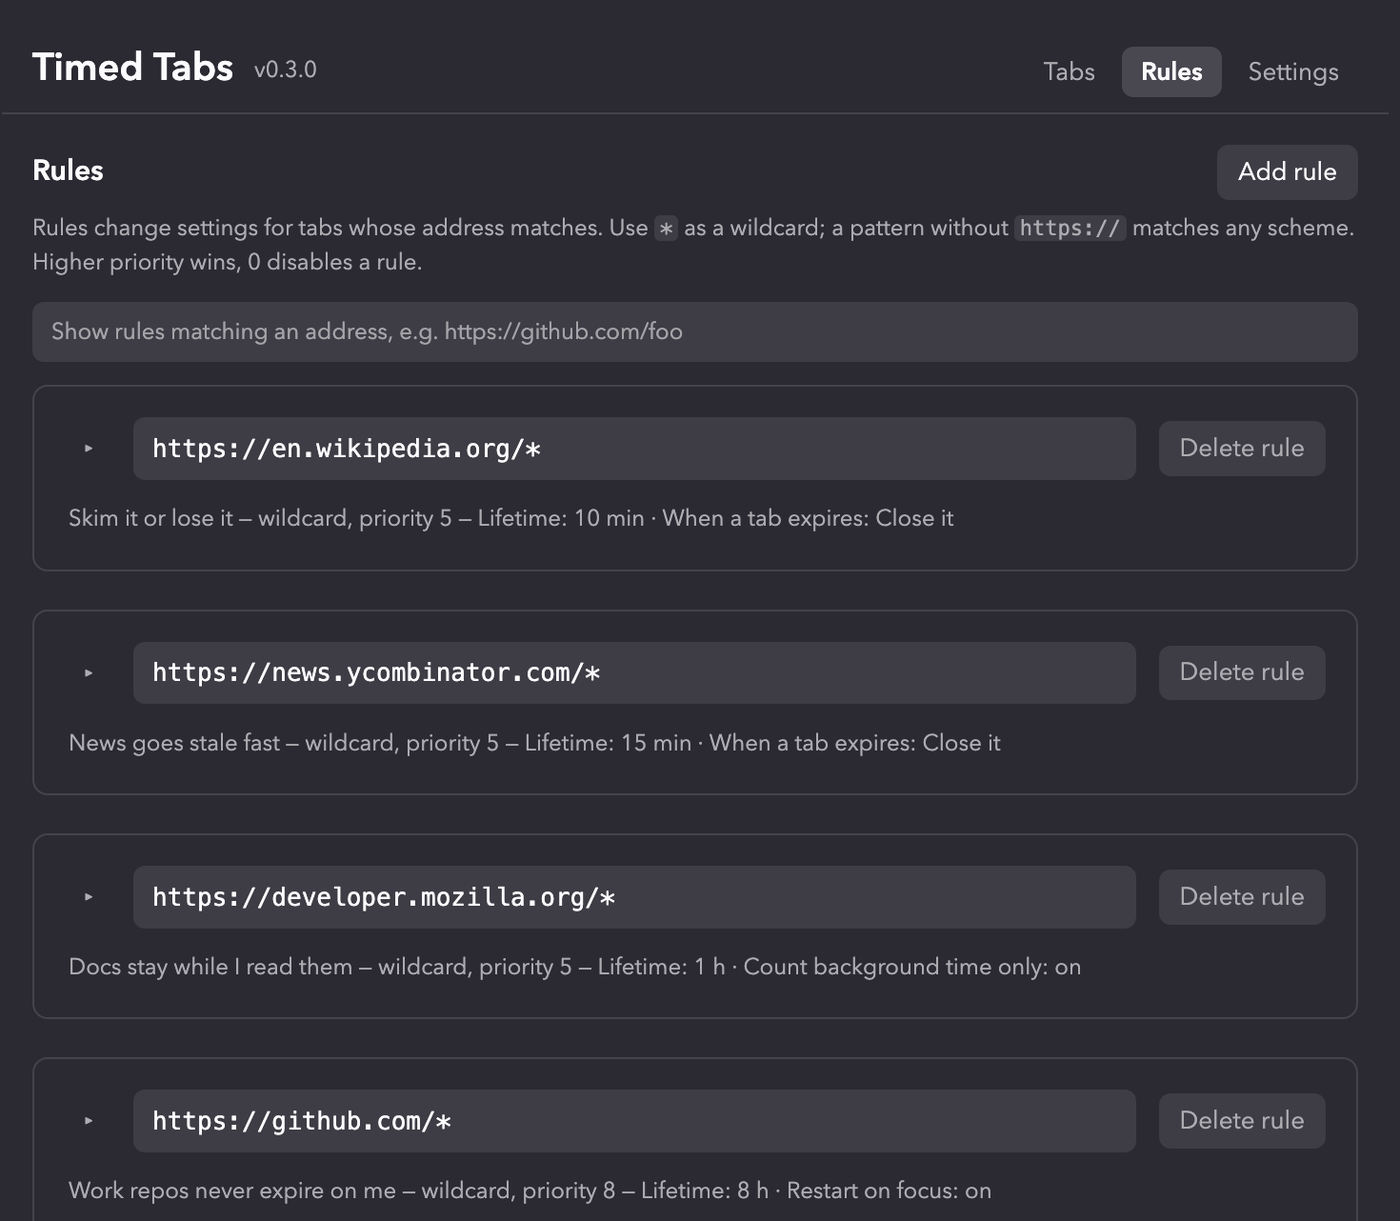
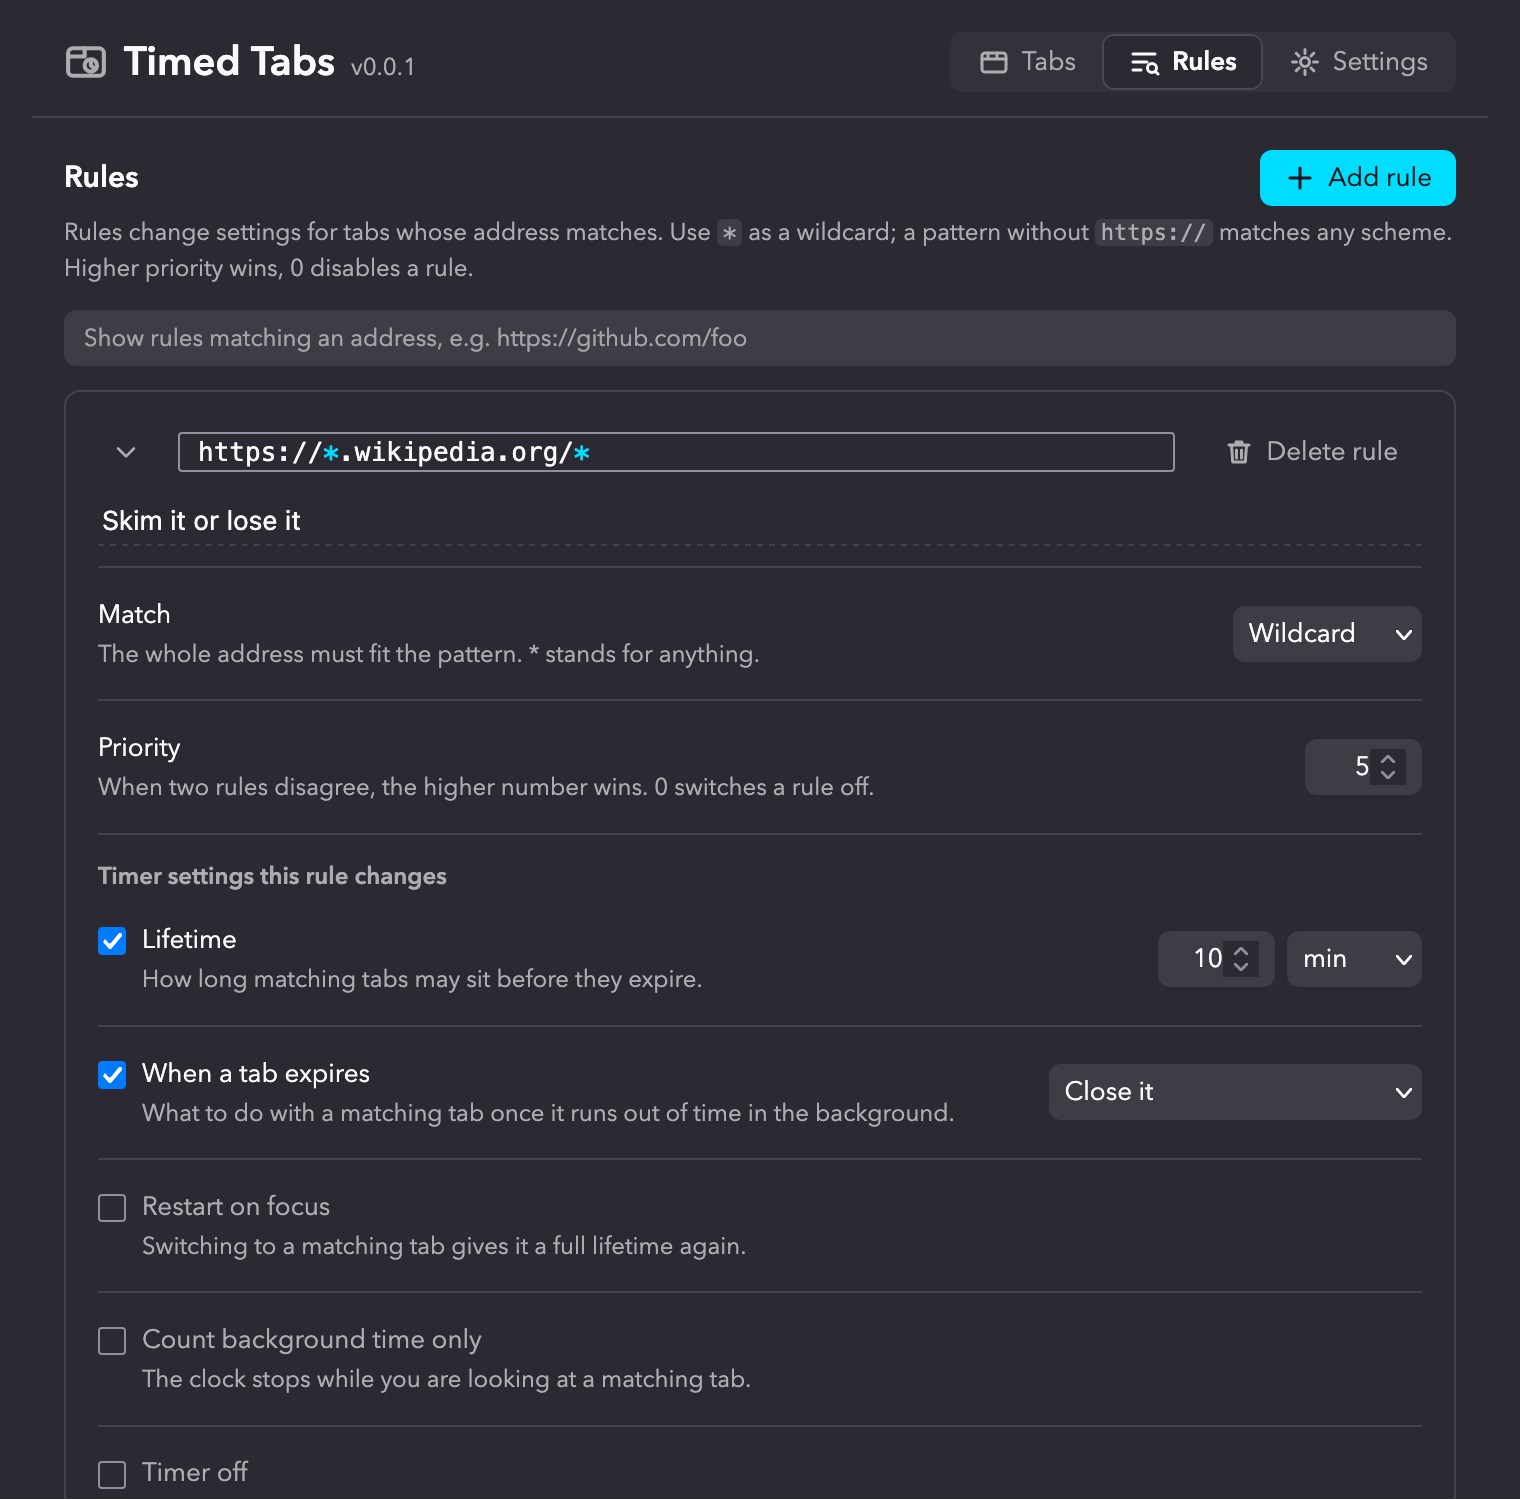
docs: a feature tour with fresh screenshots
docs/features.md walks through the timer, expiry actions, indicators, the
popup, the Tabs and Rules pages, settings, permissions and betas, drawn
from the pre-reset changelog and the current code. The screenshots are
retaken from the current UI; the two old v0.3.0 ones are replaced and a
popup and settings shot added.

diff --git a/docs/features.md b/docs/features.md
@@ -1,0 +1,146 @@
+# Features
+
+Timed Tabs gives every tab an expiry timer, shows how much of it is left, and does
+something about the tab when the time is up. Everything happens inside the browser;
+there is no account and no server.
+
+## The timer
+
+Every tab starts a clock the moment it appears. The default lifetime is 30 minutes,
+set under Settings, Timing. Two settings change when the clock runs:
+
+- **Restart the timer when you switch to a tab.** Every visit gives the tab a full
+  lifetime again, so tabs you keep coming back to never expire.
+- **Only count time while a tab is in the background.** The clock stops while you
+  are looking at a tab and resumes when you leave it.
+
+Pinned tabs are left alone. So is the tab you are looking at: whatever the expiry
+action is, it never touches the active tab.
+
+## What happens at zero
+
+Settings, When a tab expires, has one action for every background tab that runs
+out of time:
+
+- **Leave it open.** The colours show it has expired; nothing else changes.
+- **Reload it, restart the timer.** Useful for dashboards and feeds.
+- **Unload it.** The tab stays in the strip but frees its memory.
+- **Close it.** The tab goes, and lands in the Recently expired list.
+
+With **Tell me when a tab is closed** on, a desktop notification names each tab that
+was closed. Several tabs closed on the same tick share one notification. Clicking it
+reopens the tab when there was one, and opens the Tabs page when there were more.
+This needs the browser's notification permission, which is asked for when the setting
+is switched on.
+
+## Seeing the time left
+
+Settings, Appearance, offers four indicators. Use any combination. Colour runs
+green, yellow, red as time runs out.
+
+- **Colour every tab's favicon.** The icon gets a coloured square, ring or dot,
+  chosen under Favicon colour style. Works on every tab.
+- **Coloured dot in the tab title.** A 🟢 🟡 🟠 🔴 dot in front of the page title.
+  History entries show it too.
+- **Tint the active tab.** The background of the tab you are viewing takes the
+  colour. Firefox only.
+- **Minutes left on the toolbar button.** The Timed Tabs button shows the minutes
+  left for the current tab.
+
+Two settings soften the display. **Flash when a tab is about to expire** makes every
+indicator blink during the last stretch, by default the final minute. **Leave fresh
+tabs alone** shows nothing until a tab has used part of its lifetime, 40% by default,
+so recently opened tabs look like ordinary tabs.
+
+## The popup
+
+The toolbar button opens a small panel for the current tab.
+
+![The popup: time left, a draggable bar, Restart timer, Snooze and Never expire](../assets/screenshots/popup.png)
+
+- The time left, with a bar you can drag to set the tab's used share anywhere
+  between 2% and 100%.
+- **Restart timer** gives the tab a full lifetime.
+- **Snooze** adds a share of the tab's own lifetime, 10% by default, set under
+  Settings, Timing, Snooze adds.
+- **Never expire this tab** takes the tab out of the timer for as long as it is open.
+- When rules match the page, they are listed with a switch to ignore each one for
+  this tab, and a switch to ignore all of them. These choices last until the tab is
+  closed.
+- The footer opens the Tabs page, the rules that apply to this page, and Settings,
+  and links to the source code.
+
+## The Tabs page
+
+![The Tabs page: every open tab with its bar, rule count and quick actions, and the recently expired list](../assets/screenshots/tabs.png)
+
+All open tabs, grouped by window, with the active window first. Each row shows the
+favicon, the title, how many rules match, the time left and a bar of the lifetime
+used. The buttons on the right snooze the tab, turn its timer on or off, toggle
+restart-on-focus, and close it. Closing asks for a second click.
+
+**Order by** sorts within each window by tab order, time left or percent left, and
+the choice is remembered.
+
+**Recently expired** lists the tabs Timed Tabs closed, for a day by default. Each row
+keeps the site's icon and can be reopened. A page that keeps expiring shows once
+with a count and the time it was last closed. Rows can be removed one at a time, or
+the whole list cleared.
+
+## Rules
+
+![The Rules page, with one rule expanded to show its pattern, match mode, priority and overrides](../assets/screenshots/rules.png)
+
+A rule changes settings for tabs whose address matches a pattern. Rules are
+re-evaluated whenever a tab navigates, so a tab that moves from one site to another
+picks up the other site's rules.
+
+- **Patterns** use `*` as a wildcard. A pattern without `https://` matches any scheme.
+  Wildcards are shown in colour so they stand out. New rules start with `https://`.
+- **Match** is either the whole address against the pattern, or "starts with".
+- **Priority** runs from 0 to 10. When two rules disagree, the higher number wins,
+  and 0 switches a rule off.
+- **Timer settings** a rule can change: lifetime, the expiry action, restart on
+  focus, count background time only, and timer off.
+- **Appearance** a rule can change: which indicators are used, the favicon style,
+  leave fresh tabs alone and its threshold, and flashing with its lead time. The
+  global settings stay the default; a rule only replaces what it sets.
+
+The rules list is sorted by pattern. A filter box shows only the rules that match an
+address. **Make / edit rules for this page** in the popup opens the list filtered to
+the current site, and **Add rule** starts one for that site and scrolls to it.
+
+## Settings
+
+![The Settings page](../assets/screenshots/settings.png)
+
+Settings save as soon as they change and show a Saved mark. Settings sync
+through the browser's extension storage; rules are kept locally.
+
+- **Manage tabs** is the master switch. Off leaves every tab alone, with no timers,
+  no closing and no colours, and undoes every mark already made. Back on, every tab
+  starts its life afresh from that moment.
+- **Backup** exports every setting and every rule as one JSON document, to copy or
+  download, and loads one back. Loading replaces everything.
+- **Diagnostics** shows what the background is doing for each tab, which is useful
+  when an indicator does not seem to paint.
+- **Refresh every** sets how often colours and badges update, 5 seconds by default.
+
+## Privacy and permissions
+
+The manifest declares no data collection. Timed Tabs asks for access to all sites
+because the favicon and title indicators run a small script in each page to change
+its icon or title; nothing is read from the page. Notifications are an optional
+permission, asked for only when the setting is turned on.
+
+## Firefox and Chrome
+
+Firefox 140 or later is the primary target, including Firefox for Android 142 or
+later. Chrome builds are produced from the same source; the tab tint indicator is
+Firefox only because Chrome has no theme API for it.
+
+## Betas
+
+While the project is in development, each release is a beta. A beta shows a yellow
+BETA badge beside the title and is listed as "Timed Tabs Beta" in the add-ons
+manager. See [developer/releasing.md](developer/releasing.md).

diff --git a/README.md b/README.md
@@ -33,6 +33,8 @@ Beta". Details in [docs/developer/releasing.md](docs/developer/releasing.md).
 
 ## What you get
 
+The full tour, with screenshots, is in [docs/features.md](docs/features.md).
+
 - **Four ways to show the time left.** The favicon, a coloured dot in the page
   title, the toolbar badge, or a tint over the Firefox theme. Pick any of them.
 - **Per-site rules.** Docs get an hour, news gets fifteen minutes, work repos
